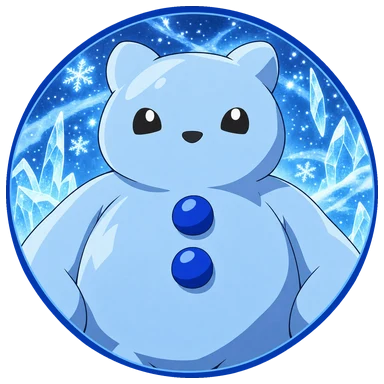
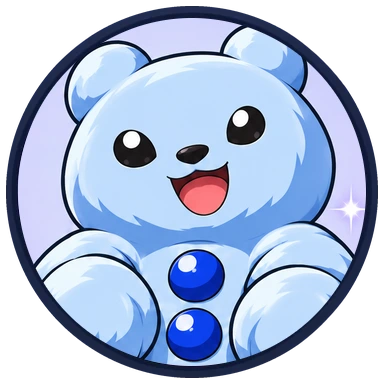
Publica los iconos Variocolor aprobados

diff --git a/index.html b/index.html
@@ -14700,7 +14700,7 @@ const PLAYER_ICONS = [
   {id:'leomon', name:'Leomon'}, {id:'hagurumon', name:'Hagurumon'}, {id:'frigimon', name:'Frigimon'}, {id:'wizardmon', name:'Wizardmon'}
 ].map(x => ({...x, src: playerIconSrc(x.id)}));
 // Iconos de skin: se desbloquean al tener la skin en alguna etapa (los de skins ocultas solo se ven al tenerlas)
-const SKIN_ICON_ART = {galactico:'galaxia', lcd:'lcd-v2'};
+const SKIN_ICON_ART = {galactico:'galaxia', lcd:'lcd-v2', variocolor:'variocolor-v2'};
 const SKIN_ICONS = [
   {key:'biyomon', skin:'galactico'}, {key:'gomamon', skin:'galactico'},
   {key:'palmon', skin:'galactico'}, {key:'tentomon', skin:'galactico'},
